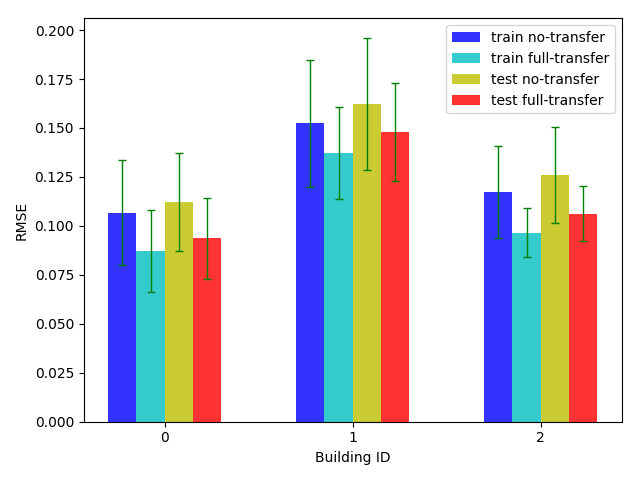
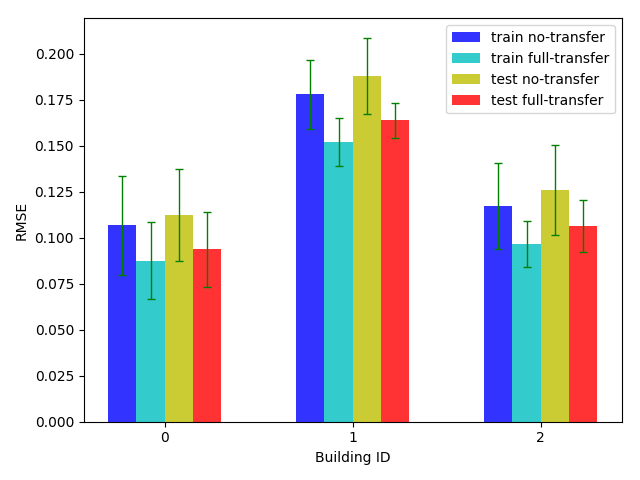
transfer learning code updated

diff --git a/transfer-learning/mcmc-transfer-learning/mcmc_transfer_regression.py b/transfer-learning/mcmc-transfer-learning/mcmc_transfer_regression.py
@@ -219,21 +219,25 @@ class MCMC:
         return w_prop
 
 
-    def transfer(self, w_transfer, trainsize, stdmulconst=1.2):
-        # burnin = int(0.1 * self.samples)
-        w_sum = np.zeros((self.wsize))
-        std_sum = np.zeros((self.wsize))
-
+    def transfer(self, w_transfer, w_pro_trf):
+#        # burnin = int(0.1 * self.samples)
+#        w_sum = np.zeros((self.wsize))
+#        std_sum = np.zeros((self.wsize))
+        indices = np.random.uniform(low=0, high=self.wsize, size=(self.transfersize)).astype('int')
+        w_pro = np.zeros(w_transfer.shape)
         for index in range(w_transfer.shape[0]):
-            weights = w_transfer[index, :]
-            # w_mean = weights.mean(axis=0)
-            # w_std = stdmulconst * np.std(weights, axis=0)
-            w_sum += weights*trainsize[index]
-            # std_sum += w_std*trainsize[index]
-        w_mean = w_sum / float(np.sum(trainsize))
-        # std_mean = w_sum / float(np.sum(trainsize))
-        # return self.genweights(w_mean, std_mean)
-        return w_mean
+            for transfer_index in indices:
+                w_pro[index, :] = w_pro_trf
+                w_pro[index, transfer_index] = w_transfer[index, transfer_index] 
+#            weights = w_transfer[index, :]
+#            # w_mean = weights.mean(axis=0)
+#            # w_std = stdmulconst * np.std(weights, axis=0)
+#            w_sum += weights*trainsize[index]
+#            # std_sum += w_std*trainsize[index]
+#        w_mean = w_sum / float(np.sum(trainsize))
+#        # std_mean = w_sum / float(np.sum(trainsize))
+#        # return self.genweights(w_mean, std_mean)
+        return w_pro
 
     def find_best(self, weights, y):
         best_rmse = 999.9
@@ -271,6 +275,7 @@ class MCMC:
 
         samples = self.samples
 
+
         y_train = []
         y_test = []
         netw = self.topology  # [input, hidden, output]
@@ -283,6 +288,7 @@ class MCMC:
 
 
         pos_w = np.ones((self.samples, self.numSources, self.wsize))  # posterior of all weights and bias over all samples
+        self.transfersize = netw[0] * netw[1]
 
         fxtrain_samples = []
         fxtest_samples = []
@@ -501,8 +507,9 @@ class MCMC:
                     np.savetxt(targettestrmsefile, [rmsetargettest_prev])
 
             if i != 0 and i % quantum == 0:
-                # sample_weights = self.transfer(w_proposal, trainsize)
-                sample_weights = np.vstack([w_proposal, w_target_pro_trf])
+                self.transfersize = random.randint(1, self.wsize+1)
+                sample_weights = self.transfer(w_proposal, w_target_pro_trf)
+                sample_weights = np.vstack([sample_weights, w_target_pro_trf])
                 w_best_target, rmse_best, source_index = self.find_best(sample_weights, y_train_target)
                 if not np.array_equal(w_best_target, w_target_pro_trf):
                    # print(" weights transfered \n")
@@ -662,7 +669,7 @@ if __name__ == '__main__':
 
 
     input = 520
-    hidden = 35
+    hidden = 45
     output = 2
     topology = [input, hidden, output]
 
@@ -707,17 +714,17 @@ if __name__ == '__main__':
 
     random.seed(time.time())
 
-    numSamples = 1500# need to decide yourself
+    numSamples = 2000# need to decide yourself
     burnin = 0.1 * numSamples
 
     try:
-        mcmc_task = MCMC(numSamples, numSources, traindata, testdata, targettraindata, targettestdata, topology,  directory='UJIImdoorData/building1/')  # declare class
+        mcmc_task = MCMC(numSamples, numSources, traindata, testdata, targettraindata, targettestdata, topology,  directory='building1/')  # declare class
 
         # generate random weights
         w_random = np.random.randn(mcmc_task.wsize)
 
     # start sampling
-#        fx_train, fx_test, accept_ratio = mcmc_task.sampler(w_random, save_knowledge=True, stdscr=stdscr)
+        fx_train, fx_test, accept_ratio = mcmc_task.sampler(w_random, save_knowledge=True, stdscr=stdscr)
         # display train and test accuracies
         mcmc_task.display_rmse()
     finally:
